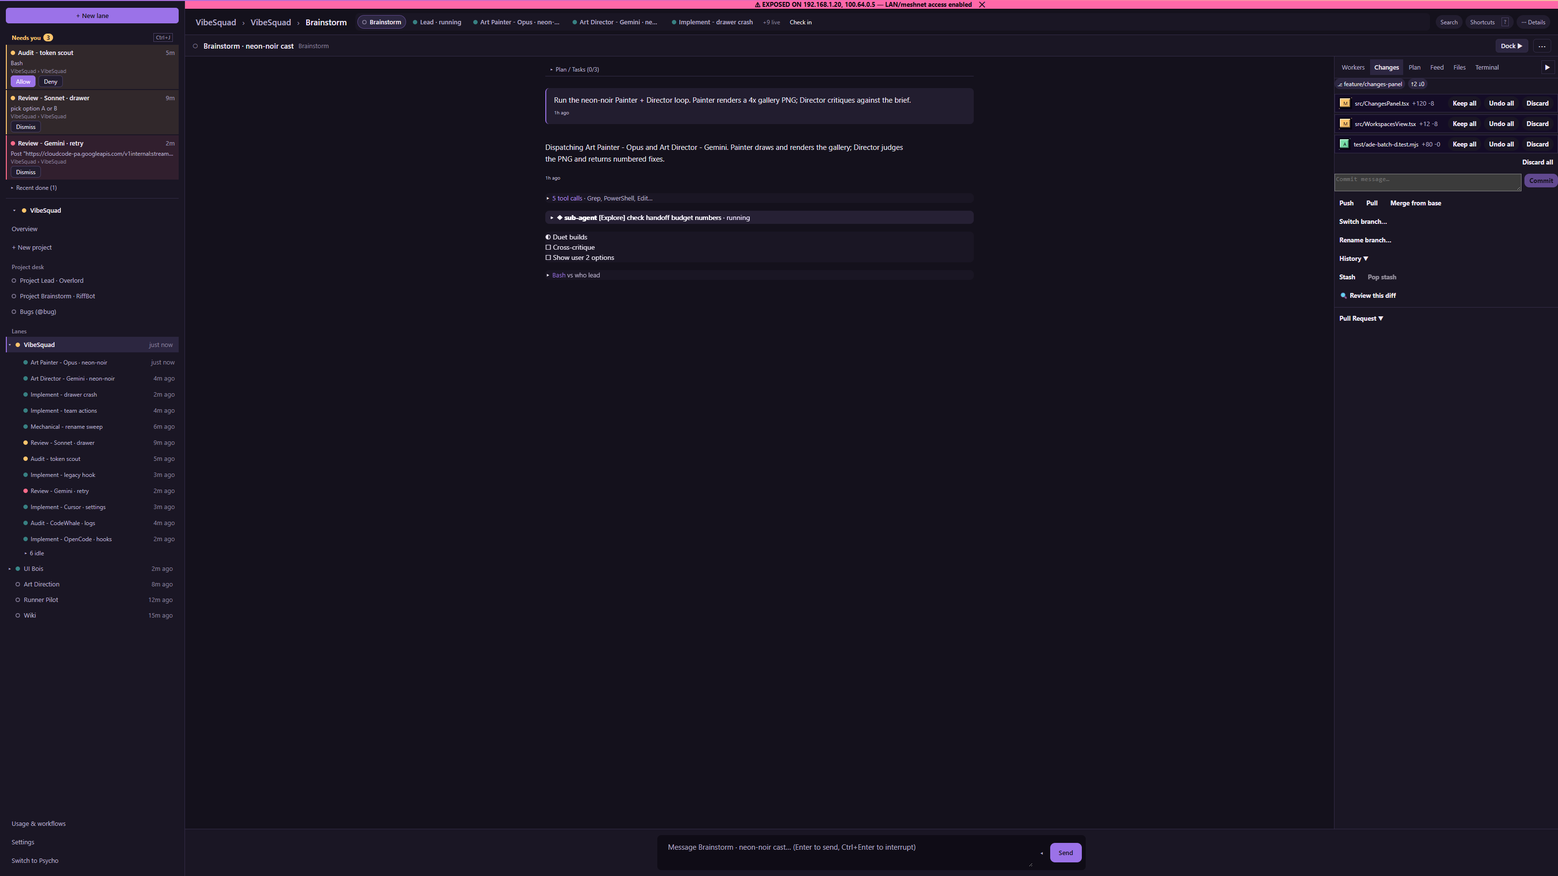
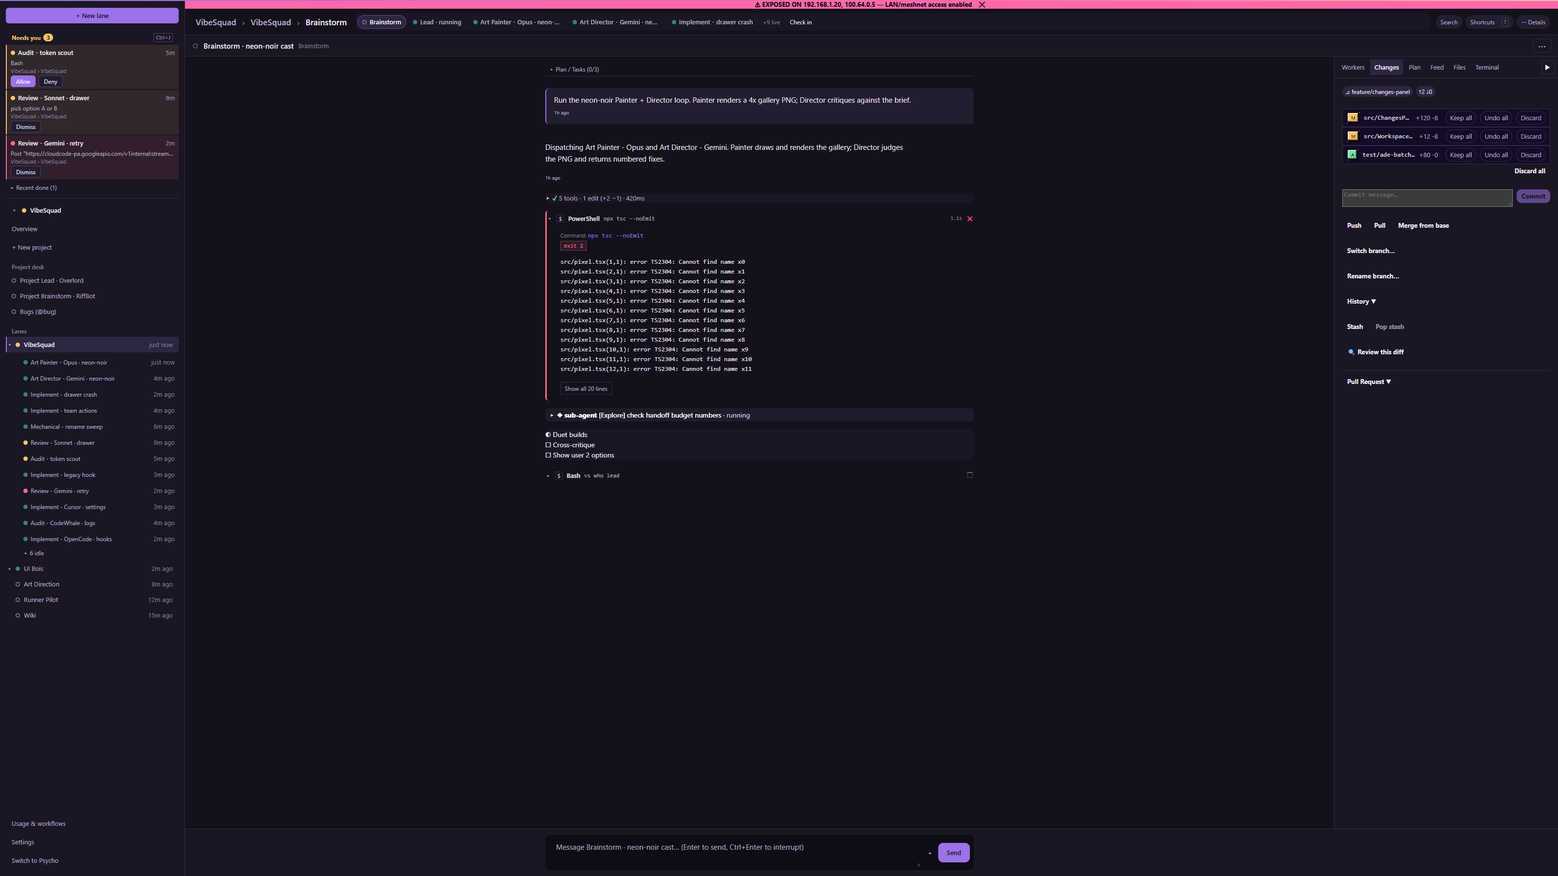
D3c fix round: composer aligned with conversation column, single-line 32px worker rows, Changes tab padding/rhythm, Dock hidden while panel open, idle count matches sidebar

diff --git a/src/boring.css b/src/boring.css
@@ -1071,13 +1071,14 @@ html[data-vibe="boring"] .boring-ctx-collapse { margin-left: auto; background: t
 html[data-vibe="boring"] .boring-ctx-collapse:hover { background: var(--surface-3); }
 html[data-vibe="boring"] .boring-ctx-body { flex: 1 1 0; min-height: 0; overflow: auto; display: flex; flex-direction: column; }
 html[data-vibe="boring"] .boring-ctx-body > .right-dock-body, html[data-vibe="boring"] .boring-ctx-body > * { min-height: 0; }
-html[data-vibe="boring"] .boring-ctx-list { display: flex; flex-direction: column; gap: 2px; padding: 8px; }
+html[data-vibe="boring"] .boring-ctx-list { display: flex; flex-direction: column; gap: 0; padding: 8px; }
 html[data-vibe="boring"] .boring-ctx-empty { padding: 20px 16px; color: var(--text-3); font-size: var(--t-ui); line-height: 1.5; }
 html[data-vibe="boring"] .boring-ctx-foot { padding: 6px 8px; font-size: var(--t-ui); }
-html[data-vibe="boring"] .boring-ctx-worker { display: grid; grid-template-columns: 14px 1fr; column-gap: 8px; text-align: left; background: transparent; border: 0; border-radius: 8px; padding: 8px; color: var(--text-1); cursor: pointer; font-size: var(--t-ui); }
+html[data-vibe="boring"] .boring-ctx-worker { display: grid; grid-template-columns: 14px minmax(0, 1fr) auto; align-items: center; gap: 0 8px; text-align: left; background: transparent; border: 0; border-radius: 8px; padding: 6px 12px; min-height: 32px; color: var(--text-1); cursor: pointer; font: 400 13px/20px var(--font-sans, inherit); }
 html[data-vibe="boring"] .boring-ctx-worker:hover, html[data-vibe="boring"] .boring-ctx-worker.current { background: var(--surface-3); }
-html[data-vibe="boring"] .boring-ctx-worker-name { font-weight: 600; overflow: hidden; text-overflow: ellipsis; white-space: nowrap; }
-html[data-vibe="boring"] .boring-ctx-worker-meta { grid-column: 2; font-size: var(--t-ui); color: var(--text-3); }
+html[data-vibe="boring"] .boring-ctx-worker-name { font-weight: 500; min-width: 0; overflow: hidden; text-overflow: ellipsis; white-space: nowrap; }
+html[data-vibe="boring"] .boring-ctx-worker-age { font: 400 11px/16px var(--font-sans, inherit); color: var(--text-3); white-space: nowrap; }
+html[data-vibe="boring"] .boring-ctx-worker-meta { grid-column: 2 / -1; font: 400 12px/16px var(--font-sans, inherit); color: var(--text-2); white-space: nowrap; overflow: hidden; text-overflow: ellipsis; min-width: 0; padding-bottom: 2px; }
 html[data-vibe="boring"] .boring-ctx-plan-row { display: flex; gap: 8px; padding: 6px 8px; font-size: var(--t-ui); color: var(--text-1); line-height: 1.4; }
 html[data-vibe="boring"] .boring-ctx-plan-row.done { color: var(--text-3); }
 html[data-vibe="boring"] .boring-ctx-plan-row.doing .boring-ctx-plan-mark { color: var(--st-attn); }
@@ -1086,3 +1087,19 @@ html[data-vibe="boring"] .boring-ctx-feed-head { display: flex; gap: 8px; justif
 html[data-vibe="boring"] .boring-ctx-feed-type { font-weight: 600; color: var(--text-1); }
 html[data-vibe="boring"] .boring-ctx-feed-row.t-blocker .boring-ctx-feed-type, html[data-vibe="boring"] .boring-ctx-feed-row.t-needs-you .boring-ctx-feed-type { color: var(--st-attn); }
 html[data-vibe="boring"] .boring-ctx-feed-text { color: var(--text-1); line-height: 1.45; margin-top: 2px; overflow-wrap: anywhere; }
+
+/* D3c fix round: composer aligns with the conversation column; header Dock hidden while the panel is open; Changes tab rhythm */
+html[data-vibe="boring"] .drawer:has(.boring-context-panel:not(.collapsed)) > .composer { padding-right: calc(16px + 460px); }
+html[data-vibe="boring"] .drawer:has(.boring-context-panel.collapsed) > .composer { padding-right: calc(16px + 36px); }
+html[data-vibe="boring"] .boring-hdr-btn[data-testid="boring-dock-toggle"].on { display: none; }
+html[data-vibe="boring"] .boring-ctx-rail-btn { background: var(--surface-2); border-color: var(--border-strong, var(--border)); color: var(--text-2); }
+html[data-vibe="boring"] .boring-ctx-body > .changes-panel { padding: 16px; box-sizing: border-box; overflow-x: hidden; gap: 24px; font-size: 13px; min-width: 0; }
+html[data-vibe="boring"] .boring-ctx-body .changes-file-list { gap: 0; }
+html[data-vibe="boring"] .boring-ctx-body .changes-file-header { min-height: 32px; padding: 4px 8px; gap: 8px; box-sizing: border-box; }
+html[data-vibe="boring"] .boring-ctx-body .changes-file-path { font: 400 13px/20px var(--font-mono, ui-monospace, monospace); }
+html[data-vibe="boring"] .boring-ctx-body .changes-file-header .btn { font: 500 12px/16px var(--font-sans, inherit); color: var(--text-2); background: transparent; border: 1px solid var(--border); padding: 2px 8px; }
+html[data-vibe="boring"] .boring-ctx-body .changes-file-header .btn.bad { color: var(--text-2); }
+html[data-vibe="boring"] .boring-ctx-body .changes-file-header .btn.bad:hover, html[data-vibe="boring"] .boring-ctx-body .changes-file-header .btn.bad:focus-visible { color: var(--st-err); }
+html[data-vibe="boring"] .boring-ctx-body .changes-commit-box { display: flex; flex-wrap: nowrap; gap: 8px; width: 100%; box-sizing: border-box; }
+html[data-vibe="boring"] .boring-ctx-body .changes-commit-msg { flex: 1 1 0; min-width: 0; width: auto; box-sizing: border-box; }
+html[data-vibe="boring"] .boring-ctx-body .changes-commit-box .btn { flex: 0 0 auto; }

diff --git a/src/BoringContextPanel.tsx b/src/BoringContextPanel.tsx
@@ -11,6 +11,7 @@ import { usePaseo } from "./paseo";
 import { resolve } from "./teams";
 import { findPinnedTodo, type Entry } from "./Timeline";
 import { Ago } from "./ui";
+import { isLive } from "./pins";
 import type { OpenRightDockDetail } from "./RightDock";
 
 /** Normal-mode single right panel (UX_REVIEW 2.8, PLAN refinement 3): replaces AgentDrawer's inner RightDock. */
@@ -55,7 +56,7 @@ const TAB_FOR_DOCK: Partial<Record<string, ContextTab>> = { Changes: "Changes", 
 function WorkersTab({ agent, laneId }: { agent: PaseoAgent; laneId: string }) {
   const { agents } = usePaseo();
   const members = useMemo(
-    () => resolve(agents).filter((m) => m.kind === "worker" && !m.agent.archivedAt && (m.laneId ?? "").toLowerCase() === laneId.toLowerCase()),
+    () => resolve(agents).filter((m) => m.kind === "worker" && isLive(m) && (m.laneId ?? "").toLowerCase() === laneId.toLowerCase()),
     [agents, laneId],
   );
   const live = members.filter(boringWorkerIsLive);
@@ -70,7 +71,10 @@ function WorkersTab({ agent, laneId }: { agent: PaseoAgent; laneId: string }) {
           <button type="button" key={m.agent.id} className={`boring-ctx-worker${m.agent.id === agent.id ? " current" : ""}`} data-testid={`boring-ctx-worker-${m.agent.id}`} onClick={() => openAgent(m.agent.id)}>
             <span className={`boring-dot st-${glyph}`} aria-hidden />
             <span className="boring-ctx-worker-name">{m.agent.title ?? m.agent.id.slice(0, 8)}</span>
-            <span className="boring-ctx-worker-meta muted">{m.attention?.reason ?? m.agent.status} · <Ago iso={m.agent.updatedAt} /></span>
+            <span className="boring-ctx-worker-age muted"><Ago iso={m.agent.updatedAt} /></span>
+            {(m.attention?.reason || m.agent.status === "error") && (
+              <span className="boring-ctx-worker-meta" title={m.attention?.reason ?? m.agent.status}>{m.attention?.reason ?? m.agent.status}</span>
+            )}
           </button>
         );
       })}

diff --git a/docs/shots/desk-d3/REVIEW_director_d3c.md b/docs/shots/desk-d3/REVIEW_director_d3c.md
@@ -1,0 +1,73 @@
+# D3c Review: Normal-mode Right Context Panel (`UX_REVIEW.md` §2.8, §4)
+
+**Verdict: FAIL** (4 MUST, 5 NICE)
+
+Reviewed at 3200×1800 CSS px (4K at 120% zoom), Dark and Light themes:
+- `docs/shots/desk-d3/d3c-dark-panel-workers.png`
+- `docs/shots/desk-d3/d3c-dark-panel-changes.png`
+- `docs/shots/desk-d3/d3c-dark-collapsed.png`
+- `docs/shots/desk-d3/d3c-light-panel-workers.png`
+- `docs/shots/desk-d3/d3c-light-panel-changes.png`
+- `docs/shots/desk-d3/d3c-light-collapsed.png`
+
+---
+
+## Criteria Scorecard
+
+| Criterion | Verdict | Evidence |
+|---|---|---|
+| **1. One right column only** | **PASS** | Single `aside.boring-context-panel` renders on the right; the legacy inner `RightDock` is absent in all 6 shots. |
+| **2. Tab bar legibility** | **PASS (with nits)** | `13px/20px` (`--t-ui`) tabs are clear in both dark and light themes with `--surface-3` + `600` weight on the active tab, though 6 tabs crowd the 460px header (NICE-1), bar height is ~32px instead of 36px (NICE-5), and two collapse buttons compete (MUST-4). |
+| **3. 460px width balance vs 880px chat column** | **PARTIAL (FAIL on composer)** | The 460px right panel balances the 340px left sidebar and 880px centred timeline well, **except** the composer row spans under the context panel and centres across `centre + right`, shifting ~230px right of the 880px conversation column (MUST-1). |
+| **4. Row rhythm (32px)** | **FAIL** | Worker rows are two-line cards at ~56–58px height (`running · 2s` repeated on line 2, plus wrapped URL on error row), and Changes file rows are ~42px tall. Neither matches the 32px desktop row rhythm of the sidebar (MUST-2, MUST-3). |
+| **5. Dark and light contrast** | **PASS** | `--surface-1` (`#1a1624` dark / `#ffffff` light) against `--surface-0` (`#14111c` / `#f6f4f9`), primary names in `--text-1`, metadata in `--text-3`, and semantic status dots (`--st-run`, `--st-attn`, `--st-err`) pass AA contrast in both themes. |
+| **6. Consistency with D3a header & D3b timeline** | **PARTIAL** | Header role subtitle is now sentence-case (`Brainstorm`), and typography/surfaces match D3a/D3b. However, the composer misaligns with the D3b timeline column (MUST-1), `Dock ▶` in the D3a header duplicates the panel's `▶` button (MUST-4), and the Changes tab retains legacy unpadded `RightDock` styling (MUST-3). |
+| **7. Collapsed state affordance** | **PARTIAL** | The 36px collapsed rail with vertical `◀ Context` works and re-centres the timeline, but the button border/surface nearly disappears in light mode and carries no attention badge for the 3 alerting workers (NICE-4). |
+
+---
+
+## Required Fixes (MUST)
+
+1. **MUST-1 · Align the composer with the 880px conversation column when the context panel is open** (`src/AgentDrawer.tsx`, `src/boring.css`):
+   - **Evidence:** In `d3c-{dark,light}-panel-{workers,changes}.png`, the timeline column (`880px` max-width) centres inside the remaining middle pane (`1fr - 460px`), while `.composer` sits below `.drawer-shell` across the full width (its top border runs underneath the open context panel) and centres across `1fr + 460px` — shifting ~230px right of the message column. In `d3c-*-collapsed.png`, they align.
+   - **Fix:** Place `<Timeline>` and `.composer` inside the same flex column (`.drawer-main { flex: 1 1 0; min-width: 0; display: flex; flex-direction: column; }`) with `<BoringContextPanel>` as a sibling in `.drawer-shell` (`flex-direction: row`), so both `.timeline > *` and `.composer > *` centre inside the exact same `1fr` column (`max-width: 880px; margin-inline: auto`).
+
+2. **MUST-2 · Enforce 32px single-line worker row rhythm and single-line ellipsis on alert reasons** (`src/BoringContextPanel.tsx`, `src/boring.css`):
+   - **Evidence:** In `d3c-{dark,light}-panel-workers.png`, every `.boring-ctx-worker` row renders two stacked lines (~56–58px tall) because `running · 2s` is placed on a second line, and `Review - Gemini - retry` wraps a raw URL across two lines (~74px tall).
+   - **Fix:**
+     - Style `html[data-vibe="boring"] .boring-ctx-worker` with `grid-template-columns: 14px 1fr auto; min-height: 32px; padding: 6px 12px; align-items: center; gap: 4px 8px;` and set `.boring-ctx-list { gap: 0; }`.
+     - For normal running/idle rows, keep a single 32px line: status dot + worker title (`--t-ui` `13px/20px`, truncated) + right-aligned age (`--t-caption` `11px/16px`, `color: var(--text-3)`), matching the left sidebar worker rows.
+     - Render `.boring-ctx-worker-meta` (`grid-column: 2 / -1; font: 400 12px/16px var(--font-sans); color: var(--text-2); white-space: nowrap; overflow: hidden; text-overflow: ellipsis;`) **only** when the worker has an active attention reason or error (`m.attention` or `status === "error"`), with the full string in `title`.
+
+3. **MUST-3 · Apply Normal panel padding (16px), 32px row height, and non-clipped commit layout to the Changes tab** (`src/boring.css`):
+   - **Evidence:** In `d3c-{dark,light}-panel-changes.png`, the branch chip and commit input sit nearly flush against the left border (`0–4px` inset), the `Commit` button is clipped on the right edge, file rows are ~42px tall, and `Keep all` / `Undo all` / `Discard` use heavy `600`-weight styling that overpowers the file paths.
+   - **Fix:** Scope under `html[data-vibe="boring"] .boring-ctx-body`:
+     - Add `padding: 16px; box-sizing: border-box; overflow-x: hidden;` to the Changes container (`.changes-panel` / `.right-dock-body`).
+     - Set file rows to `min-height: 32px; padding: 4px 8px; align-items: center;` with file path in `--t-mono` (`13px/20px`).
+     - Style per-file action buttons (`Keep all`, `Undo all`, `Discard`) at `font: 500 12px/16px var(--font-sans); color: var(--text-2); background: transparent; border: 1px solid var(--border); padding: 2px 8px;`, colouring `Discard` with `color: var(--st-err)` on hover/focus only.
+     - Fix the commit row with `display: flex; gap: 8px; width: 100%; box-sizing: border-box;` where the input has `flex: 1 1 0; min-width: 0;` and the `Commit` button has `flex: 0 0 auto;` so it never clips.
+     - Use `24px` vertical spacing (`--sp-5`) between the file list, commit block, and git action links (`UX_REVIEW.md` §4.2).
+
+4. **MUST-4 · Remove the duplicate `Dock ▶` button from `.boring-agent-header` when the context panel is open** (`src/BoringAgentHeader.tsx`, `src/boring.css`):
+   - **Evidence:** In `d3c-{dark,light}-panel-{workers,changes}.png`, `Dock ▶` in `.boring-agent-header` sits immediately above-left of the context panel's own `▶` collapse button (`.boring-ctx-collapse`). Both toggle the same panel, and "Dock" is legacy terminology.
+   - **Fix:** Keep `.boring-ctx-collapse` (`▶`) in the context panel tab bar and `.boring-ctx-rail-btn` (`◀ Context`) on the collapsed rail as the primary toggles. In `src/BoringAgentHeader.tsx`, either hide `[data-testid="boring-dock-toggle"]` while the context panel is open (`display: none` when open) or render it as a single subtle icon toggle without the legacy `"Dock"` label.
+
+---
+
+## Polish Fixes (NICE)
+
+1. **NICE-1 · Keep the 4 spec tabs (`Workers · Changes · Plan · Feed`) primary and tuck `Files · Terminal` into overflow** (`src/BoringContextPanel.tsx`, `src/boring.css`):
+   - `UX_REVIEW.md` §4.3 specifies 4 tabs (`Workers · Changes · Plan · Feed`). Showing all 6 tabs leaves no room for tab counts (e.g. `Workers 11`, `Changes 3`). Keep `Files` and `Terminal` under a trailing `⋯` overflow menu (or show them dynamically when activated via `vs:open-right-dock`), preserving `data-testid="boring-context-tab-files"` and `boring-context-tab-terminal`.
+
+2. **NICE-2 · Match the sidebar's idle worker filter (`6 idle` vs `7 idle workers hidden`) and make the footer expandable** (`src/BoringContextPanel.tsx`):
+   - In `d3c-*-panel-workers.png`, the bottom caption reads `7 idle workers hidden` while the left sidebar for the same lane reads `▸ 6 idle` (`WorkersTab` includes `status === "closed"` workers that `pins.ts` excludes). Filter out `m.agent.status === "closed"` in `src/BoringContextPanel.tsx` (`WorkersTab`) and render the footer as an interactive `▸ 6 idle` disclosure button in `--t-small` (`12px/16px`, `color: var(--text-3)`).
+
+3. **NICE-3 · Deduplicate the in-timeline `Plan / Tasks (0/3)` bar when the Context Panel `Plan` tab is open** (`src/Timeline.tsx`, `src/BoringContextPanel.tsx`):
+   - Hide the inline `Plan / Tasks` bar in `Timeline.tsx` when the right context panel is open on `Plan`, or make clicking the inline bar open the `Plan` tab in `BoringContextPanel`.
+
+4. **NICE-4 · Increase collapsed rail contrast in light mode and show an attention badge** (`src/BoringContextPanel.tsx`, `src/boring.css`):
+   - In `d3c-light-collapsed.png`, `.boring-ctx-rail-btn` (`◀ Context`) is barely visible against `#ffffff`. Style `html[data-vibe="boring"] .boring-ctx-rail-btn` with `background: var(--surface-2); border: 1px solid var(--border-strong); color: var(--text-2); padding: 12px 6px;`.
+   - When the lane has alerting/errored workers (3 in the demo cast), render a compact severity pill badge (`3`, using `--st-err` or `--st-attn` per `UX_REVIEW.md` §4.5) at the top of `.boring-ctx-rail-btn`.
+
+5. **NICE-5 · Set tab bar height to 36px with a 2px `--accent` active indicator** (`src/boring.css`):
+   - Set `html[data-vibe="boring"] .boring-ctx-tabs { min-height: 36px; padding: 0 8px; align-items: center; }` and `.boring-ctx-tab { height: 28px; padding: 0 10px; }` (`UX_REVIEW.md` §4.2 fixed heights: tabs 36px), or use a `2px solid var(--accent)` bottom bar on `.boring-ctx-tab.on` to match the selected row treatment.

diff --git a/docs/shots/desk-d3/REVIEW_code_d3c.md b/docs/shots/desk-d3/REVIEW_code_d3c.md
@@ -1,0 +1,47 @@
+# Code Review · @desk D3c (`unit-desk-d3c-context-panel`, HEAD `4900d42`)
+
+**Verdict:** `PASS 0/2/3 4900d42`
+**Cause-vs-symptom gate:** PASS — Fixes the structural root cause (duplicate right column in Normal mode and missing lane supervision context next to chat) by building `src/BoringContextPanel.tsx` as the single Normal-mode right panel (`Workers | Changes | Plan | Feed | Files | Terminal`) and unmounting `AgentDrawer`'s inner `RightDock` when `vibe === "boring"`.
+
+## Verification commands (`4900d42`)
+- `npx tsc --noEmit`: exit 0 (0 errors)
+- `node --test test/desk-d3c-context-panel.test.mjs test/boring-mode.test.mjs test/prefs.test.mjs`: 74/74 pass (`531ms`)
+- `node --test test/css-classes.test.mjs test/ui-theme.test.mjs test/desk-d3b-toolrows.test.mjs`: 16/16 pass (`241ms`)
+- `git diff --stat origin/master...HEAD`: only `src/AgentDrawer.tsx`, `src/BoringAgentHeader.tsx`, `src/BoringContextPanel.tsx`, `src/boring.css`, `test/desk-d3c-context-panel.test.mjs`, and `docs/shots/desk-d3/d3c-*.png` touched (`0` edits to `src/styles.css` or `art/**`).
+
+## Checklist (1–8)
+
+1. **Psycho mode (`vibe=fun`) still renders `RightDock` exactly as before:** **PASS.**
+   - `src/AgentDrawer.tsx:552` branches on `vibe === "boring" && !chatOnly` for `BoringAgentHeader` vs `DrawerHeader` (`dockOpen={dockOpen}`, `onToggleDock={() => !chatOnly && setDockOpen((v) => !v)}` at `src/AgentDrawer.tsx:645-646`).
+   - `src/AgentDrawer.tsx:684-688` renders `<RightDock key={agent.id} agent={agent} />` when `vibe !== "boring" && dockOpen && !chatOnly`. `src/RightDock.tsx` is untouched.
+2. **Only one right column exists in Normal mode:** **PASS.**
+   - `src/AgentDrawer.tsx:679-688` makes `<BoringContextPanel>` (`vibe === "boring" && !chatOnly`) and `<RightDock>` (`vibe !== "boring" && dockOpen && !chatOnly`) mutually exclusive.
+3. **All existing `data-testid`s are kept:** **PASS.**
+   - `BoringAgentHeader` preserves `data-testid="boring-dock-toggle"` (`src/BoringAgentHeader.tsx:199`); `BoringContextPanel` adds `boring-context-panel`, `boring-context-toggle`, `boring-context-body`, `boring-context-tab-{workers,changes,plan,feed,files,terminal}`, `boring-ctx-workers(-empty)`, `boring-ctx-worker-<id>`, `boring-ctx-plan(-empty)`, and `boring-ctx-feed(-empty)`. All 74 tests in `test/boring-mode.test.mjs` + `test/desk-d3c-context-panel.test.mjs` pass.
+4. **CSS is scoped under `html[data-vibe="boring"]`; no edit to `src/styles.css` or `art/**`:** **PASS.**
+   - Every rule in `src/boring.css:1061-1088` begins with `html[data-vibe="boring"]`. `0c7e8a5` removed the extra `@media` block so `boring.css` keeps its two-`@media` invariant.
+5. **`openRightDockTab` routing works (file links, "Open in Changes", quick open):** **PASS (with M1/L1 notes below).**
+   - `src/BoringContextPanel.tsx:141-153` stays mounted in Normal mode (even when collapsed, rendering `<aside className="boring-context-panel collapsed">`), listens to `vs:open-right-dock`, maps `Changes | Files | Terminal` via `TAB_FOR_DOCK` (`src/BoringContextPanel.tsx:53`), calls `setContextPanelOpen(true)` and `setTab(next)`, and forwards `target.file` / `target.line` / `target.nonce` to `<FilesPanel>`.
+   - Commit links (`openCommit` in `src/changesNav.ts:6-9`) call `requestCommit(cwd, sha)` then `openRightDockTab("Changes")`; `<ChangesPanel>` claims the commit via `takeCommitRequest` / `onCommitRequest`.
+6. **Feed fetch has no leaks or polling storms, and cleans up on unmount:** **PASS.**
+   - `src/BoringContextPanel.tsx:106-116` keys the `useEffect` strictly on `[teamId]`, sets `dead = true` on cleanup, skips `setInterval` in `DEMO`, guards interval ticks with `document.hidden || load()` at `10_000ms`, and calls `clearInterval(t)` on unmount. Because `FeedTab` is conditionally mounted only when `tab === "Feed"` (`src/BoringContextPanel.tsx:173`), switching away from the `Feed` tab or collapsing the panel unmounts `FeedTab` and stops polling immediately.
+7. **Collapse/persist logic is correct at the `1600px` boundary:** **PASS.**
+   - `contextPanelOpen(pref, viewportWidth)` (`src/BoringContextPanel.tsx:25-30`): `const wide = viewportWidth >= 1600; if (pref === "0") return false; if (pref === "1") return true; return wide;`.
+   - `useContextPanel()` (`src/BoringContextPanel.tsx:48-51`) uses `useSyncExternalStore` subscribed to `window` `"resize"` and `setContextPanelOpen`, reading `localStorage.getItem("vs.context-panel.open")`. Below `1600px` (`1599`) with no explicit pref it returns `false`; at `1600px` it returns `true`; explicit `"0"` / `"1"` overrides persist across resizes.
+8. **Assessment of worker-declared known gaps (Scripts/Project tabs dropped in Normal, Plan shows only pinned todo, Feed is read-only):** **NONE is a MUST regression.**
+   - **`Scripts` / `Project` tabs dropped in Normal:** Matches `docs/PLAN_DESK_UX_REDESIGN.md` line 18 (`Workers | Changes | Plan | Feed | Files | Terminal`) and line 68 (`Workers · Changes · Plan · Feed`, plus access to `Files · Terminal`). Not a MUST regression.
+   - **`Plan` shows only `findPinnedTodo(entries)`:** Matches `docs/UX_REVIEW.md` §5 Step 2.8 ("reuse ... the plan/todo from `src/Timeline.tsx`"). Normal mode previously had only `PinnedTodo` in `Timeline.tsx:1601`. Not a regression.
+   - **`Feed` is read-only:** In `docs/UX_REVIEW.md` §3 Direction A, the right context panel is a compact lane supervision surface showing recent log events (`DONE`, `BLOCKER`), while full `TeamFeed` with the owner composer remains accessible in Normal mode under `Overview -> Standup Feed` (`src/BoringAde.tsx:660,695`). Not a MUST regression.
+
+## Findings (0 High / 2 Medium / 3 Low)
+
+- **M1 (`src/BoringContextPanel.tsx:58` vs `src/pins.ts:67-70,106` — `WorkersTab` idle count includes closed workers, disagreeing with the sidebar):**
+  - `WorkersTab` filters `resolve(agents)` by `m.kind === "worker" && !m.agent.archivedAt && (m.laneId ?? "").toLowerCase() === laneId.toLowerCase()`, whereas `pinsForSquad` (`src/pins.ts:68,106`) filters lane workers with `isLive` (`!m.agent.archivedAt && m.agent.status !== "closed"`). Closed (unarchived) workers are counted in `idle` in `WorkersTab` (`7 idle workers hidden`) while the sidebar (`src/BoringAde.tsx:503-505`) excludes `status === "closed"` (`▸ 6 idle`). Filter out `m.agent.status === "closed"` (or use `isLive(m)`) so both surfaces report the same idle worker count.
+- **M2 (`src/AgentDrawer.tsx:663-689`, `src/boring.css:751-754` — Composer centres across full drawer width while timeline centres in `1fr - 460px`):**
+  - `<BoringContextPanel>` is mounted inside `.drawer-shell` alongside `<Timeline>`, while `.composer` is a sibling below `.drawer-shell`. When the 460px context panel is open, `.timeline > *` centres inside the remaining left area, whereas `.composer > *` centres across the entire `.drawer` width (shifting ~230px right relative to the timeline column; also flagged by Art Director M1 in `docs/shots/desk-d3/REVIEW_director_d3c.md`).
+- **L1 (`src/BoringContextPanel.tsx:149` — Line-only `vs:open-right-dock` event drops `line`):**
+  - `RightDock.tsx:74-75` handles `else if (detail.line !== undefined) setTargetLine(detail.line)`, whereas `BoringContextPanel.tsx:149` only updates `target` when `d.filePath !== undefined`. All current callers pass `filePath`, so this has no live impact today, but matching `RightDock`'s fallback is safer.
+- **L2 (`src/BoringContextPanel.tsx:34` & `src/AgentDrawer.tsx:247-256` — `vs:open-right-dock` in Normal mode mutates `vs.right-dock.open` and `dockOpen`):**
+  - `AgentDrawer.tsx:251-256` still listens to `vs:open-right-dock` and sets `dockOpen(true)` (writing `vs.right-dock.open = "true"` at line 248) even when `vibe === "boring"`, and `openRightDockTab` (`src/RightDock.tsx:22-30`) sets `pendingOpen` because `dockMounted` is `0` in Normal mode. Harmless unless the user switches to Psycho within 2s of clicking a file link.
+- **L3 (`src/BoringAgentHeader.tsx:68,148` — `sentenceCase("SPEC / PLAN")` produces `"Spec / plan"`):**
+  - `sentenceCase` lowercases the entire remainder of `AGENT_TYPE_LABEL[p.agentType]`, which works cleanly for `"Lead"`, `"Brainstorm"`, `"Implement"`, `"Retired lead"`, etc., and turns `"SPEC / PLAN"` into `"Spec / plan"` (acceptable under UX_REVIEW §4.1 sentence-case rule).
